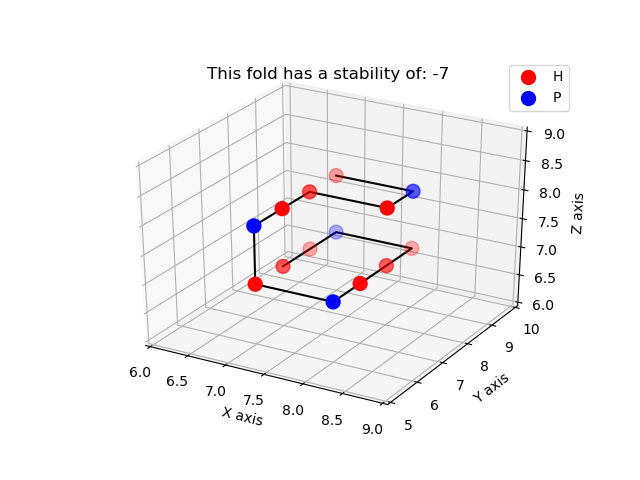
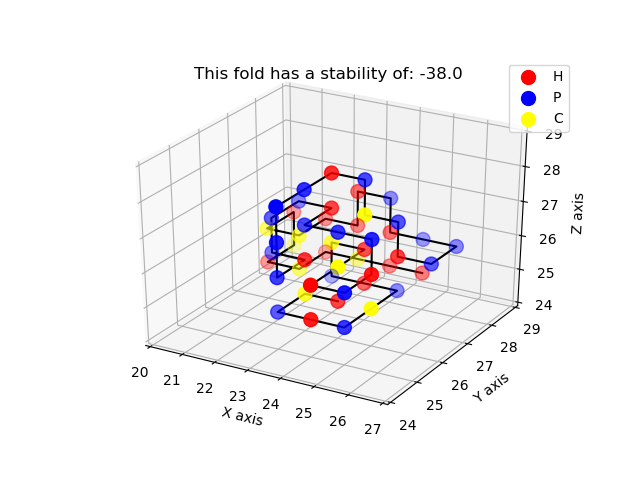
greedy 3D

diff --git a/eiwitten/greedy.py b/eiwitten/greedy.py
@@ -13,52 +13,51 @@ def main():
     # makes user input into the protein class
     protein = Protein(argv[1])
 
-    options = Option(protein.length)
-    best_fold = options.option
-    best_positions = options.positions
-    best_fold_points = fold_points(best_positions, protein.sequence) - protein.errorpoint[-1]
+    possible_changes = list(product(["forward", "left", "right", "up", "down"], repeat = 6))
 
-    possible_changes = list(product(["right", "left", "forward", "up", "down"], repeat = 7))
+    best_fold = list(possible_changes[0])
+    best_positions = amino_positions(best_fold)
+    best_fold_points = fold_points(best_positions, protein.sequence)
 
-    for i in range(2):
-        for index in range(len(protein.sequence) - 8):
-            print("Hillclimber attempt number " + str(index + 1))
+    for i in range(3):
+        for index in range(len(protein.sequence) - 6):
+            print("Hillclimber attempt number " + str(i) + "." + str(index + 1))
         # Iterates over all possible changes and adds them to every poiny in best_fold
 
             for change in possible_changes:
-                changed_fold = best_fold
-
+                changed_fold = deepcopy(best_fold)
                 changed_fold[index] = change[0]
                 changed_fold[index + 1] = change[1]
                 changed_fold[index + 2] = change[2]
                 changed_fold[index + 3] = change[3]
                 changed_fold[index + 4] = change[4]
                 changed_fold[index + 5] = change[5]
-                changed_fold[index + 6] = change[6]
 
                 # Determines aminopositions of changed fold
-                changed_positions = changed_amino_positions(protein.sequence, changed_fold)
+                changed_positions = amino_positions(changed_fold)
                 if changed_positions:
-                    if (fold_points(changed_positions, protein.sequence)) - protein.errorpoint[-1] > best_fold_points:
-                        print("New best fold points: ")
-                        best_fold_points = fold_points(changed_positions, protein.sequence) - protein.errorpoint[-1]
+                    if (fold_points(changed_positions, protein.sequence)) > best_fold_points:
+                        best_fold_points = fold_points(changed_positions, protein.sequence)
                         best_fold = changed_fold
                         best_positions = changed_positions
-                        print(best_fold_points)
-                        print(best_fold)
+                        print("New best fold points: " + str(int(best_fold_points - protein.errorpoint[-1])))
+                        print("")
+
+            if (i == 0):
+                best_fold.append("forward")
 
 
     # prints best_fold_points and best_fold and current field
-    print(best_fold_points)
+    print(best_fold_points - protein.errorpoint[-1])
     print(best_fold)
     print(best_positions)
 
     # renders visualisation
     p = Path(protein.length, best_positions)
     if best_positions[0][2]:
-        p.plot3Dfold(protein.sequence, best_fold_points)
+        p.plot3Dfold(protein.sequence, best_fold_points - protein.errorpoint[-1])
     else:
-        p.plotFold(protein.sequence, best_fold_points)
+        p.plotFold(protein.sequence, best_fold_points - protein.errorpoint[-1])
 
 # checks the points scored by the current fold
 def fold_points(positions, sequence):
@@ -70,50 +69,50 @@ def fold_points(positions, sequence):
             HHHH.append(position)
         elif acid == "C":
             CCCC.append(position)
-    for i in range(len(HHHH)):
-        if (HHHH[i][0] - 1, HHHH[i][1], HHHH[i][2]) in (HHHH or CCCC):
+    for position in HHHH:
+        if (position[0] - 1, position[1], position[2]) in (HHHH or CCCC):
             points += 1
-        if (HHHH[i][0], HHHH[i][1] - 1, HHHH[i][2]) in (HHHH or CCCC):
+        if (position[0], position[1] - 1, position[2]) in (HHHH or CCCC):
             points += 1
-        if (HHHH[i][0], HHHH[i][1] + 1, HHHH[i][2]) in (HHHH or CCCC):
+        if (position[0], position[1] + 1, position[2]) in (HHHH or CCCC):
             points += 1
-        if (HHHH[i][0] + 1, HHHH[i][1], HHHH[i][2]) in (HHHH or CCCC):
+        if (position[0] + 1, position[1], position[2]) in (HHHH or CCCC):
             points += 1
-        if (HHHH[i][0], HHHH[i][1], HHHH[i][2] + 1) in (HHHH or CCCC):
+        if (position[0], position[1], position[2] + 1) in (HHHH or CCCC):
             points += 1
-        if (HHHH[i][0] + 1, HHHH[i][1], HHHH[i][2] - 1) in (HHHH or CCCC):
+        if (position[0], position[1], position[2] - 1) in (HHHH or CCCC):
             points += 1
-    for i in range(len(CCCC)):
-        if (CCCC[i][0] - 1, CCCC[i][1], CCCC[i][2]) in CCCC:
+    for position in CCCC:
+        if (position[0] - 1, position[1], position[2]) in CCCC:
             points += 5
-        elif (CCCC[i][0] - 1, CCCC[i][1], CCCC[i][2]) in HHHH:
+        elif (position[0] - 1, position[1], position[2]) in HHHH:
             points += 2
-        if (CCCC[i][0], CCCC[i][1] - 1, CCCC[i][2]) in CCCC:
+        if (position[0], position[1] - 1, position[2]) in CCCC:
             points += 5
-        elif (CCCC[i][0], CCCC[i][1] - 1, CCCC[i][2]) in HHHH:
+        elif (position[0], position[1] - 1, position[2]) in HHHH:
             points += 2
-        if (CCCC[i][0], CCCC[i][1] + 1, CCCC[i][2]) in CCCC:
-            points += 5
-        elif (CCCC[i][0], CCCC[i][1] + 1, CCCC[i][2]) in HHHH:
+        if (position[0], position[1] + 1, position[2]) in CCCC:
             points += 2
-        if (CCCC[i][0] + 1, CCCC[i][1], CCCC[i][2]) in CCCC:
-            points += 5
-        elif (CCCC[i][0] + 1, CCCC[i][1], CCCC[i][2]) in HHHH:
+        elif (position[0], position[1] + 1, position[2]) in HHHH:
             points += 2
-        if (CCCC[i][0], CCCC[i][1], CCCC[i][2] + 1) in CCCC:
+        if (position[0] + 1, position[1], position[2]) in CCCC:
             points += 5
-        elif (CCCC[i][0], CCCC[i][1], CCCC[i][2] + 1) in HHHH:
+        elif (position[0] + 1, position[1], position[2]) in HHHH:
             points += 2
-        if (CCCC[i][0], CCCC[i][1], CCCC[i][2] - 1) in CCCC:
+        if (position[0], position[1], position[2] + 1) in CCCC:
             points += 5
-        elif (CCCC[i][0], CCCC[i][1], CCCC[i][2] - 1) in HHHH:
+        elif (position[0], position[1], position[2] + 1) in HHHH:
+            points += 2
+        if (position[0], position[1], position[2] - 1) in CCCC:
+            points += 5
+        elif (position[0], position[1], position[2] - 1) in HHHH:
             points += 2
     return points / 2
 
-def changed_amino_positions(sequence, option):
+def amino_positions(option):
     # initialises positions list and starting coordinates of protein
     positions = []
-    begin = int(ceil(len(sequence) / 2))
+    begin = int(ceil(len(option) / 2))
 
     # initialises x-, y-coordinates and current direction
     x, y, z = begin, begin + 1, begin
@@ -217,6 +216,7 @@ def changed_amino_positions(sequence, option):
             return False
         positions.append(tuple((x, y, z)))
     return positions
+
 
 if __name__ == '__main__':
     main()

diff --git a/eiwitten/random_option.py b/eiwitten/random_option.py
@@ -1,14 +1,15 @@
 from itertools import product
 import random
-"""Generates a list of all folding options for the protein"""
+from math import ceil
+
+"""Generates an array of a random fold option for the protein"""
 class Option(object):
-    def __init__(self, length):
-#        self.options = list(product(["right", "left", "forward"], repeat = length - 2))
+    def __init__(self, length, sequence):
         self.option = list(random_product(["right", "left", "forward", "up", "down"], repeat = length))
-        self.positions = amino_positions(list(self.option), length)
+        self.positions = amino_positions(sequence, list(self.option))
         while not self.positions:
             self.option = list(random_product(["right", "left", "forward",  "up", "down"], repeat = length))
-            self.positions = amino_positions(list(self.option), length)
+            self.positions = amino_positions(sequence, list(self.option))
 
 # from https://docs.python.org/3.1/library/itertools.html?highlight=combinations#itertools.product
 # generates a random sequence of left, forward and right of length protein.length
@@ -18,14 +19,11 @@ def random_product(*args, repeat):
     return tuple(random.choice(pool) for pool in pools)
 
 # finds all x,y amino positions of current option
-def amino_positions(option, length):
+def amino_positions(sequence, option):
+
     # initialises positions list and starting coordinates of protein
     positions = []
-    begin = int((length / 2))
-
-    # appends first two positions to positions list
-    positions.append(tuple((begin, begin, begin)))
-    positions.append(tuple((begin, begin + 1, begin)))
+    begin = int(ceil(len(sequence) / 2))
 
     # initialises x-, y-coordinates and current direction
     x, y, z = begin, begin + 1, begin
@@ -129,23 +127,3 @@ def amino_positions(option, length):
             return False
         positions.append(tuple((x, y, z)))
     return positions
-
-# determines if current fold option results in bumps
-def viable_option(option):
-    number = 1
-    for position in option:
-        for i in range(len(option) - number):
-            if option[i + number] == position:
-                return False
-        number = number + 1
-    return True
-
-    # def automatic(self, option, protein):
-    #     for i in range(len(protein)):
-    #         if protein[i] == protein[i+4] == "H":
-    #             if option[i] == option[i+1] == "left" or option[i] == option[i+1] == "right":
-    #                 return False
-    #                 self.count += 1
-    #                 print(self.count)
-    #                 i += 4
-    #     return True

diff --git a/eiwitten/protein.py b/eiwitten/protein.py
@@ -22,6 +22,7 @@ class Protein(object):
             elif self.sequence[i] == "H" and self.sequence[i + 1] == "C":
                 points += 1
             point_list.append(points)
+        print(point_list[-1])
         return(point_list)
 
     """Determines minimum number of points for each point in the sequence"""
